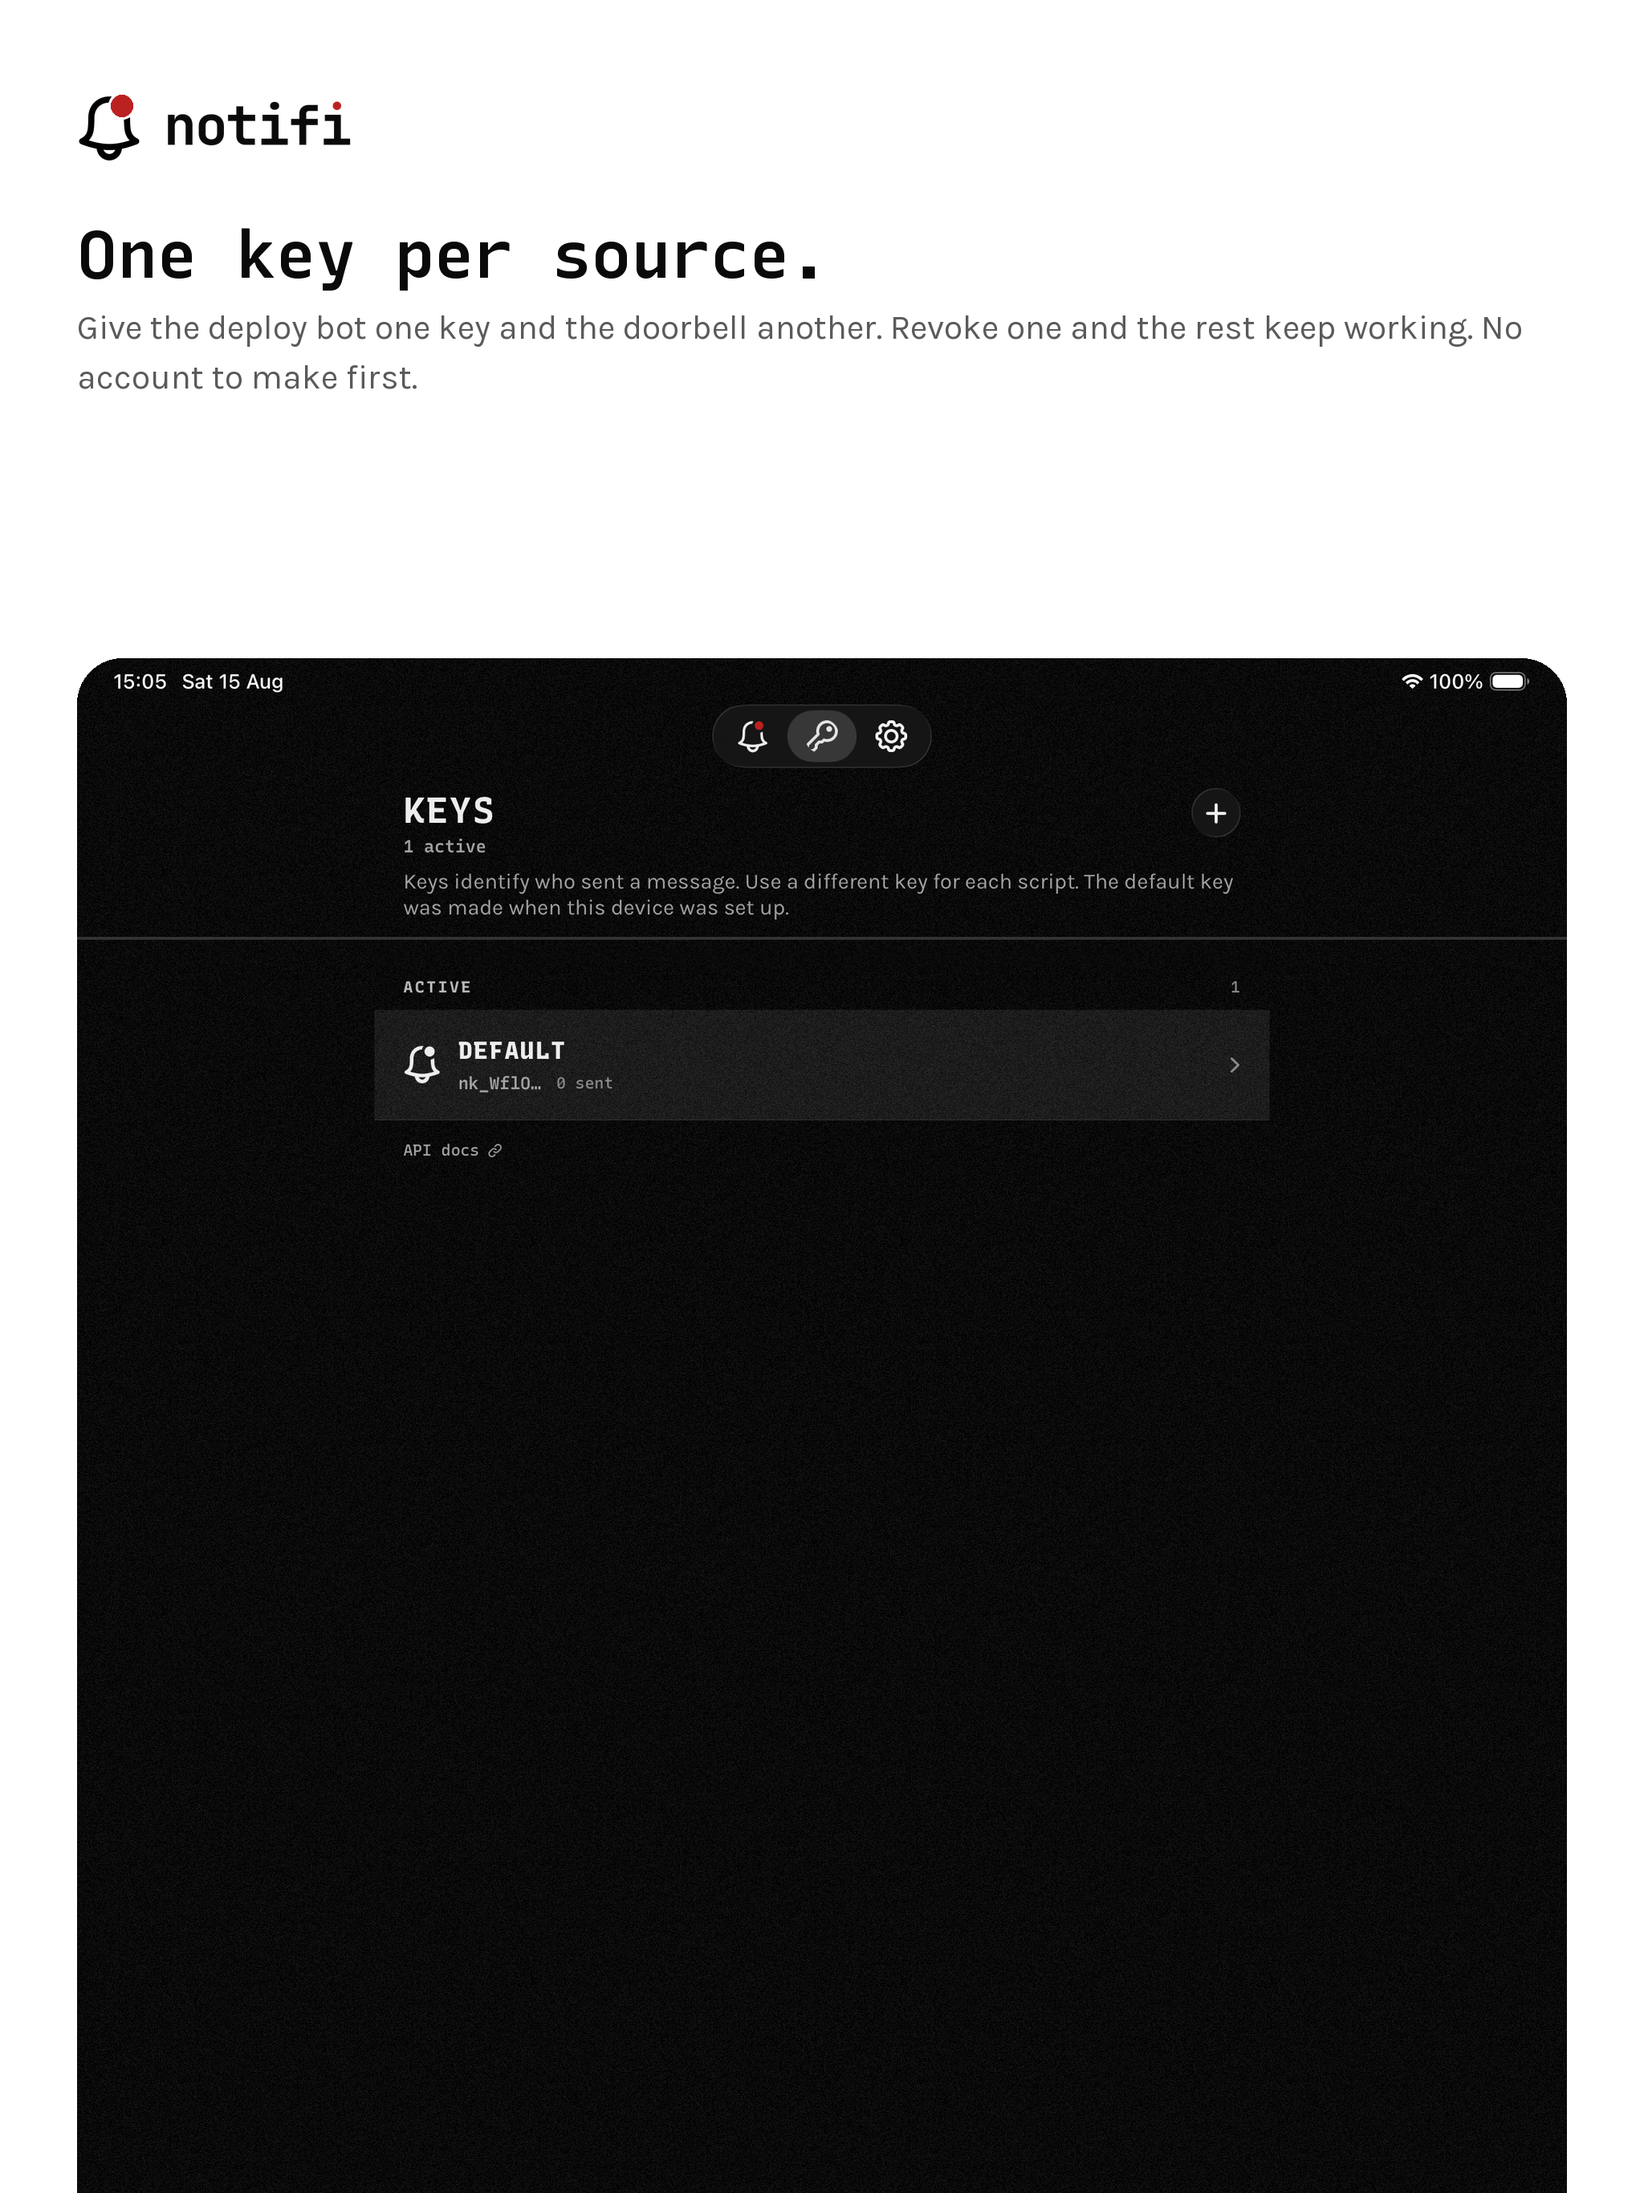
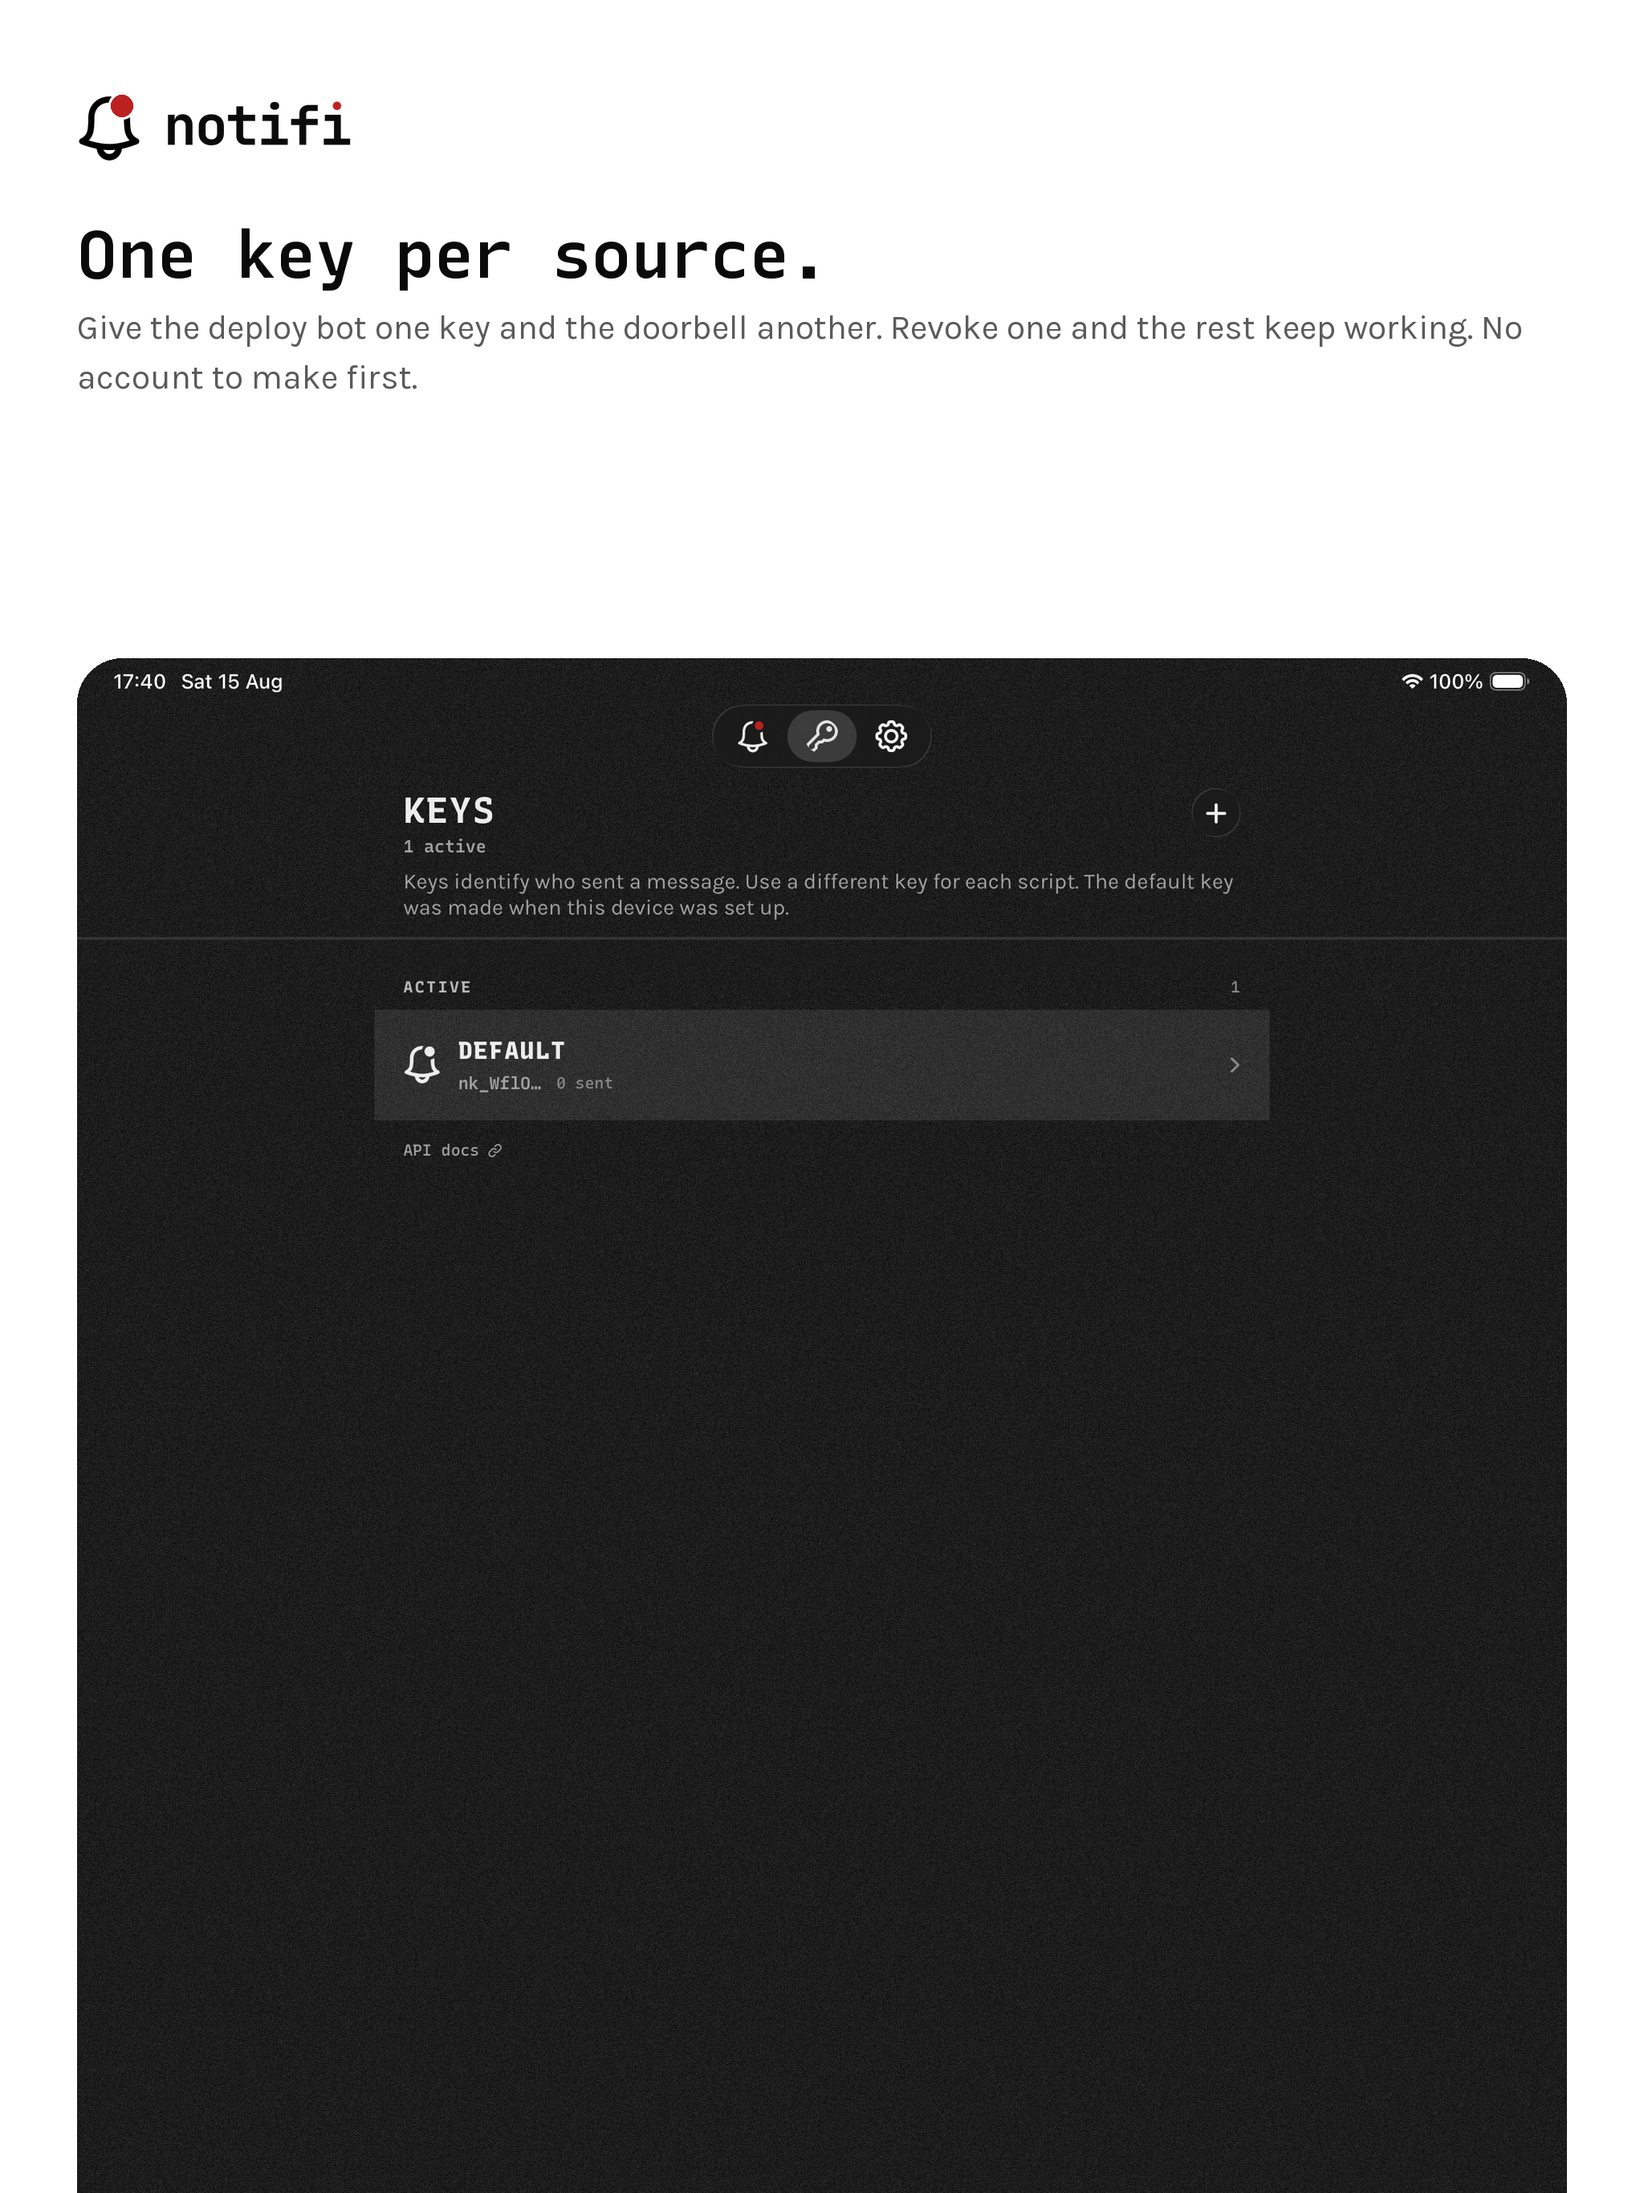
Put the dark ground back to charcoal (#158)
#136 dropped the page ground to near-black so settings groups could
step up onto the old ground colour. Next to the website — whose ground
stayed #1C1C1E with visible grain — the app's screens read as flat
black. The ground returns to 0.11 and groupFill takes the same step up
(0.185), so the grouping #136 built keeps its contrast. LaunchBackground
and StaticNoise carry their hand-kept copies of the value.

Changed region(s): [[0.0312, 0.28, 0.9688, 1.0]]

diff --git a/apps/app/Shared/Support/Theme.swift b/apps/app/Shared/Support/Theme.swift
@@ -9,10 +9,10 @@ enum Theme {
 
     /// `LaunchBackground` in the asset catalog is a hand-kept copy of this pair,
     /// as are `StaticNoise`'s grounds. Change one, change all three.
-    static let bg = grey(light: 0.949, dark: 0.035)
+    static let bg = grey(light: 0.949, dark: 0.11)
     /// A section of settings rows, one step up off `bg`. This is the app's
     /// grouping device, which is why no rule draws that boundary as well.
-    static let groupFill = grey(light: 1.0, dark: 0.11)
+    static let groupFill = grey(light: 1.0, dark: 0.185)
     static let fg = grey(light: 0.102, dark: 0.929)
     static let read = grey(light: 0.28, dark: 0.72)
     static let muted = grey(light: 0.36, dark: 0.631)

diff --git a/apps/app/Shared/Views/Components/StaticField.swift b/apps/app/Shared/Views/Components/StaticField.swift
@@ -39,7 +39,7 @@ private enum StaticNoise {
 
     /// Hand-kept copies of `Theme.bg`. The tile is generated into a bitmap
     /// before any view exists, so it cannot read the token.
-    private static let darkGround: Double = 0.035
+    private static let darkGround: Double = 0.11
     private static let darkAmplitude: Double = 0.055
     private static let lightGround: Double = 0.949
     private static let lightAmplitude: Double = 0.035
